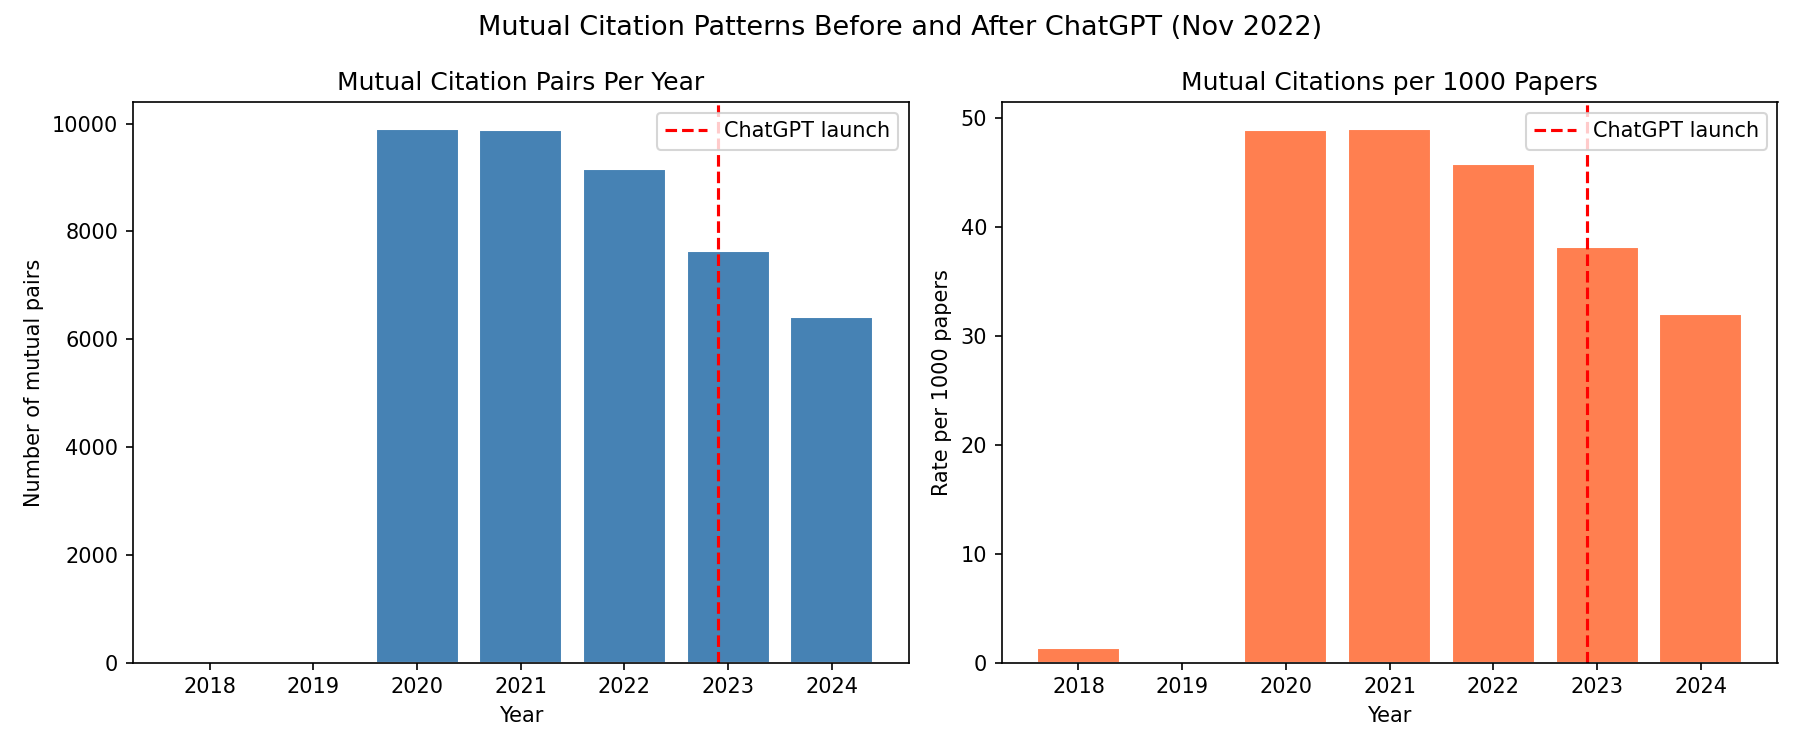
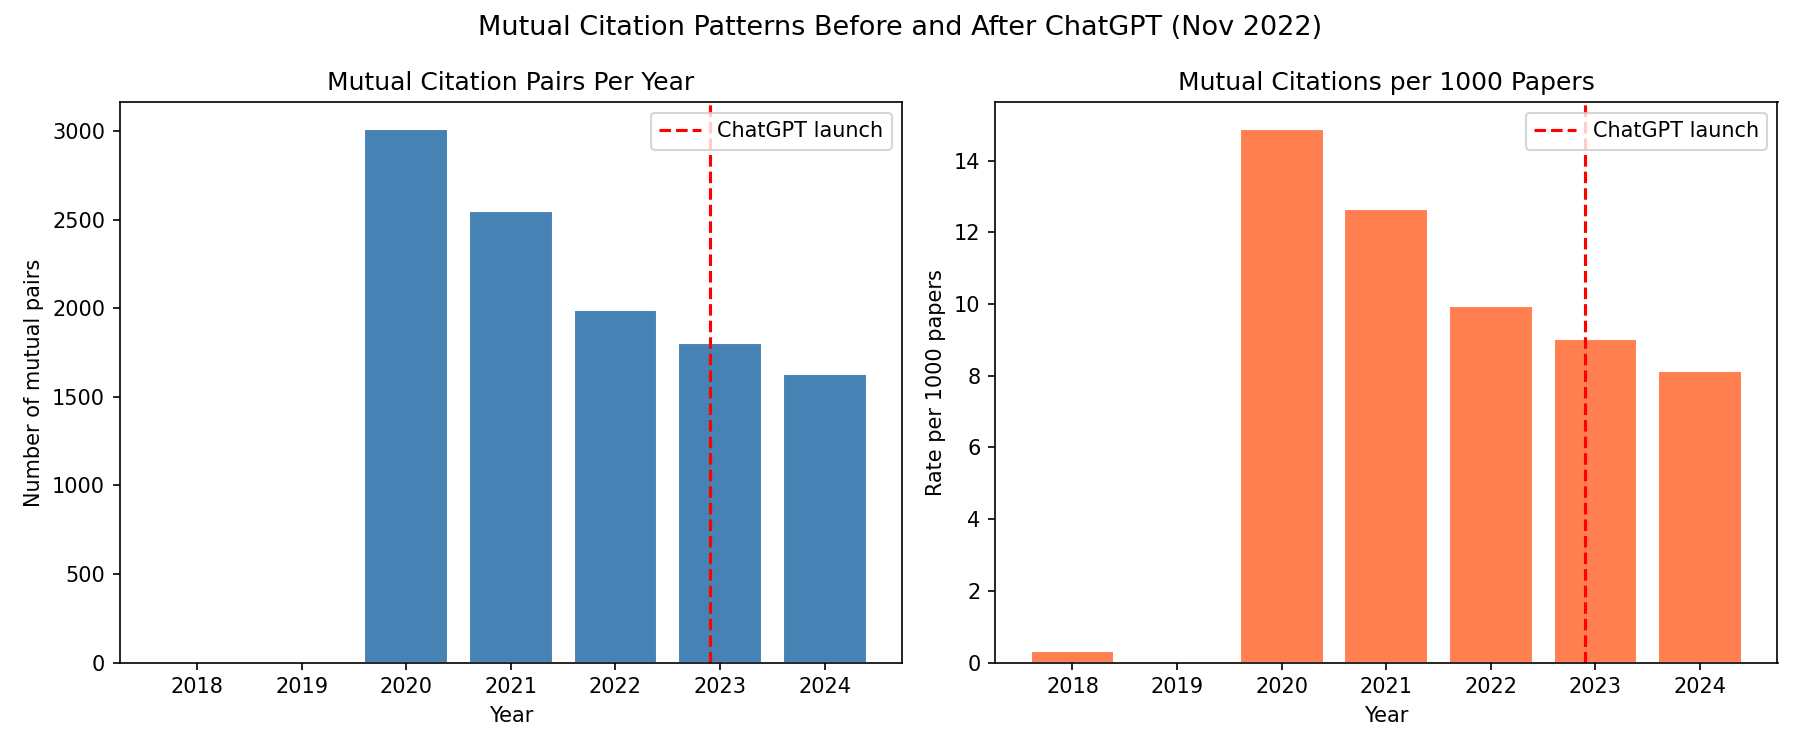
editing motif analysis so pairs are not double counted

diff --git a/tests/stat_test.py b/tests/stat_test.py
@@ -4,45 +4,55 @@ from scipy.stats import chi2_contingency
 
 con = duckdb.connect("data/citations.duckdb")
 
-mutual = con.execute("""
-    SELECT 
-        GREATEST(w_a.year, w_b.year) AS year,
-        COUNT(*) AS pairs
-    FROM citations a
-    JOIN citations b ON a.citing_id = b.cited_id AND a.cited_id = b.citing_id
-    JOIN works w_a ON a.citing_id = w_a.id
-    JOIN works w_b ON a.cited_id = w_b.id
-    WHERE w_a.year BETWEEN 2018 AND 2024
-    AND w_b.year BETWEEN 2018 AND 2024
-    GROUP BY GREATEST(w_a.year, w_b.year)
+# count distinct papers participating in at least one mutual citation, by year
+# - a.citing_id < a.cited_id filters out self-cites and counts each unordered
+#   pair {X, Y} exactly once
+papers_in_mutual = con.execute("""
+    WITH mutual_pairs AS (
+        SELECT a.citing_id AS p1, a.cited_id AS p2
+        FROM citations a
+        JOIN citations b ON a.citing_id = b.cited_id AND a.cited_id = b.citing_id
+        WHERE a.citing_id < a.cited_id
+    ),
+    paper_in_any AS (
+        SELECT DISTINCT p1 AS pid FROM mutual_pairs
+        UNION
+        SELECT DISTINCT p2 FROM mutual_pairs
+    )
+    SELECT w.year, COUNT(*) AS papers_in_mutual
+    FROM paper_in_any pi
+    JOIN works w ON pi.pid = w.id
+    WHERE w.year BETWEEN 2018 AND 2024
+    GROUP BY w.year
 """).fetchall()
 
 papers = con.execute(
     "SELECT year, COUNT(*) FROM works WHERE year BETWEEN 2018 AND 2024 GROUP BY year"
 ).fetchall()
 
-mutual_dict = {r[0]: r[1] for r in mutual}
+in_mutual = {r[0]: r[1] for r in papers_in_mutual}
 paper_dict = {r[0]: r[1] for r in papers}
 
-pre_pairs = mutual_dict.get(2020, 0) + mutual_dict.get(2021, 0)
-post_pairs = mutual_dict.get(2023, 0) + mutual_dict.get(2024, 0)
+pre_in_mutual = in_mutual.get(2020, 0) + in_mutual.get(2021, 0)
+post_in_mutual = in_mutual.get(2023, 0) + in_mutual.get(2024, 0)
 pre_papers = paper_dict.get(2020, 0) + paper_dict.get(2021, 0)
 post_papers = paper_dict.get(2023, 0) + paper_dict.get(2024, 0)
 
-pre_non_mutual = pre_papers - pre_pairs
-post_non_mutual = post_papers - post_pairs
+pre_not_in = pre_papers - pre_in_mutual
+post_not_in = post_papers - post_in_mutual
 
-print(f"Pre-ChatGPT (2020-2021): {pre_pairs:,} mutual / {pre_papers:,} papers")
-print(f"Post-ChatGPT (2023-2024): {post_pairs:,} mutual / {post_papers:,} papers")
+print(f"Pre-ChatGPT  (2020-2021): {pre_in_mutual:,} of {pre_papers:,} papers in mutual pairs")
+print(f"Post-ChatGPT (2023-2024): {post_in_mutual:,} of {post_papers:,} papers in mutual pairs")
 
-pre_rate = pre_pairs / pre_papers * 1000
-post_rate = post_pairs / post_papers * 1000
+pre_rate = pre_in_mutual / pre_papers * 1000
+post_rate = post_in_mutual / post_papers * 1000
 
-print(f"Pre rate: {pre_rate:.4f} per 1000 papers")
-print(f"Post rate: {post_rate:.4f} per 1000 papers")
+print(f"Pre rate:  {pre_rate:.4f} papers in mutual pairs per 1000 papers")
+print(f"Post rate: {post_rate:.4f} papers in mutual pairs per 1000 papers")
 
-# chi-square test on a 2x2 contingency table
-table = np.array([[pre_pairs, pre_non_mutual], [post_pairs, post_non_mutual]])
+# 2x2 paper-level contingency table — each paper is a Bernoulli trial
+# (in a mutual pair or not), grouped by period
+table = np.array([[pre_in_mutual, pre_not_in], [post_in_mutual, post_not_in]])
 
 chi2, pvalue, dof, expected = chi2_contingency(table)
 
@@ -52,9 +62,9 @@ print(f"P-value: {pvalue:.10f}")
 if pvalue < 0.05:
     print("Result: statistically significant (p < 0.05)")
     if post_rate > pre_rate:
-        print("Mutual citation rate INCREASED after ChatGPT.")
+        print("Mutual citation participation INCREASED after ChatGPT.")
     else:
-        print("Mutual citation rate DECREASED after ChatGPT.")
+        print("Mutual citation participation DECREASED after ChatGPT.")
 else:
     print("Result: not statistically significant (p >= 0.05)")
     print("Cannot conclude that ChatGPT changed mutual citation rates.")

diff --git a/research/motif_analysis.py b/research/motif_analysis.py
@@ -6,21 +6,29 @@ con = duckdb.connect("data/citations.duckdb")
 print("Analyzing mutual citation motifs before and after ChatGPT...")
 
 # count mutual citation pairs per year
+# - a.citing_id < a.cited_id filters out self-cites (X = X) AND counts each
+#   unordered pair {X, Y} exactly once instead of twice (the symmetric join
+#   would otherwise yield both (X->Y, Y->X) and (Y->X, X->Y))
 mutual_by_year = con.execute("""
-    SELECT 
-        GREATEST(w_a.year, w_b.year) AS year,
+    WITH mutual_pairs AS (
+        SELECT a.citing_id AS p1, a.cited_id AS p2
+        FROM citations a
+        JOIN citations b
+            ON a.citing_id = b.cited_id
+            AND a.cited_id = b.citing_id
+        WHERE a.citing_id < a.cited_id
+    )
+    SELECT
+        GREATEST(w1.year, w2.year) AS year,
         COUNT(*) AS mutual_pairs
-    FROM citations a
-    JOIN citations b 
-        ON a.citing_id = b.cited_id 
-        AND a.cited_id = b.citing_id
-    JOIN works w_a ON a.citing_id = w_a.id
-    JOIN works w_b ON a.cited_id = w_b.id
-    WHERE w_a.year IS NOT NULL
-    AND w_b.year IS NOT NULL
-    AND w_a.year BETWEEN 2018 AND 2024
-    AND w_b.year BETWEEN 2018 AND 2024
-    GROUP BY GREATEST(w_a.year, w_b.year)
+    FROM mutual_pairs m
+    JOIN works w1 ON m.p1 = w1.id
+    JOIN works w2 ON m.p2 = w2.id
+    WHERE w1.year IS NOT NULL
+    AND w2.year IS NOT NULL
+    AND w1.year BETWEEN 2018 AND 2024
+    AND w2.year BETWEEN 2018 AND 2024
+    GROUP BY GREATEST(w1.year, w2.year)
     ORDER BY year
 """).fetchall()
 
@@ -34,6 +42,7 @@ papers_by_year = con.execute("""
 """).fetchall()
 
 paper_counts = {r[0]: r[1] for r in papers_by_year}
+mutual_counts = {r[0]: r[1] for r in mutual_by_year}
 years = [r[0] for r in mutual_by_year]
 pairs = [r[1] for r in mutual_by_year]
 rates = [p / paper_counts.get(y, 1) * 1000 for p, y in zip(pairs, years)]
@@ -65,48 +74,5 @@ plt.tight_layout()
 plt.savefig("outputs/motif_analysis.png", dpi=150)
 plt.show()
 
-from scipy.stats import proportions_ztest
-import numpy as np
-
-print("\n=== Statistical Significance Test ===")
-
-# pre-ChatGPT: 2020-2021 combined
-pre_years = [y for y in years if y <= 2021]
-post_years = [y for y in years if y >= 2023]
-
-pre_pairs = sum(mutual_counts.get(y, 0) for y in pre_years)
-post_pairs = sum(mutual_counts.get(y, 0) for y in post_years)
-
-pre_papers = sum(paper_counts.get(y, 0) for y in pre_years)
-post_papers = sum(paper_counts.get(y, 0) for y in post_years)
-
-print(f"Pre-ChatGPT (2020-2021): {pre_pairs:,} mutual pairs out of {pre_papers:,} papers")
-print(f"Post-ChatGPT (2023-2024): {post_pairs:,} mutual pairs out of {post_papers:,} papers")
-
-pre_rate = pre_pairs / pre_papers * 1000
-post_rate = post_pairs / post_papers * 1000
-
-print(f"Pre rate: {pre_rate:.4f} per 1000 papers")
-print(f"Post rate: {post_rate:.4f} per 1000 papers")
-
-# run the test
-counts = np.array([post_pairs, pre_pairs])
-nobs = np.array([post_papers, pre_papers])
-
-stat, pvalue = proportions_ztest(counts, nobs)
-
-print(f"\nZ-statistic: {stat:.4f}")
-print(f"P-value: {pvalue:.6f}")
-
-if pvalue < 0.05:
-    print("Result: statistically significant (p < 0.05)")
-    if post_rate > pre_rate:
-        print("Mutual citation rate INCREASED after ChatGPT.")
-    else:
-        print("Mutual citation rate DECREASED after ChatGPT.")
-else:
-    print("Result: not statistically significant (p >= 0.05)")
-    print("Cannot conclude that ChatGPT changed mutual citation rates.")
-
-
-print("\ndone.")
+print("\nFor the formal statistical test, run tests/stat_test.py.")
+print("done.")

diff --git a/docs/research_notes.md b/docs/research_notes.md
@@ -40,7 +40,7 @@ If mutual citation rates stayed flat or grew at the same pace as overall paper v
 
 If the hypothesis holds, the papers involved in post-2022 mutual citations may also be published closer together in time — suggesting researchers are citing work they discovered very recently rather than work they'd been aware of for a long time. This is not required for the hypothesis to hold but would strengthen it if found.
 
-## Results (May 14, 2026)
+## Results (May 14, 2026) — superseded, see correction below
 
 Ran research/motif_analysis.py and research/stat_test.py on the cleaned dataset.
 Pre-ChatGPT (2020–2021): 19,769 mutual citation pairs across 403,920 papers — 48.94 per 1000 papers.
@@ -50,6 +50,37 @@ Chi-square statistic: 954.21, p-value: ~0.000000000 — statistically significan
 Finding: mutual citation rate decreased by 28% after ChatGPT's release.
 This is the opposite of the hypothesis. The decrease is statistically significant and cannot be attributed to random variation.
 Next step: investigate why.
+
+## Bug Fix in Motif Analysis (May 15, 2026)
+
+The numbers above were produced by buggy code. The bugs affected absolute magnitudes but not the direction of the finding. Corrected results below.
+
+What was wrong:
+1. **Self-citations counted as mutual citations.** The mutual-pair self-join `a.citing_id = b.cited_id AND a.cited_id = b.citing_id` matches any self-citation `(X → X)` against itself, so every self-cite was being counted as a "mutual pair". Self-cites per year were not evenly distributed (3,875 in 2020, 5,178 in 2022, 3,155 in 2024), so they inflated the pre-period baseline more than the post-period.
+2. **Every true mutual pair was double-counted.** The symmetric self-join produces two rows per unordered pair `{X, Y}` — once via `(a=X→Y, b=Y→X)` and once via `(a=Y→X, b=X→Y)`. The reported counts were ~2× the actual number of mutual pairs.
+3. **`motif_analysis.py` referenced an undefined variable** (`mutual_counts`) in its stat-test block, and imported `proportions_ztest` from `scipy.stats` where it does not exist (it lives in `statsmodels`). The script crashed before printing any stats, so the chart was produced but the in-script stat test never ran.
+4. **`stat_test.py` built an incoherent contingency table.** It computed `non_mutual = papers - pairs`, subtracting pair-counts from paper-counts as if they were the same unit. The chi-square test mechanically detected that the two ratios differed, but the table had no meaningful interpretation as counts of independent events.
+
+What was fixed:
+1. Added `WHERE a.citing_id < a.cited_id` to the self-join CTE. This filter simultaneously (a) excludes self-cites, since `X < X` is false, and (b) deduplicates each unordered pair `{X, Y}` to exactly one row.
+2. Removed the broken in-script stat block from `motif_analysis.py`. Statistical testing now lives only in `tests/stat_test.py`.
+3. Replaced the contingency table with a paper-level Bernoulli table: per period, how many papers participated in at least one mutual pair vs. how many did not. This is well-defined — each paper is one independent trial — and is computed from a `UNION` of both sides of the deduped mutual-pair set.
+
+## Corrected Results (May 15, 2026)
+
+Mutual pairs per year (deduplicated, self-cites excluded):
+- 2020: 3,010 pairs / 202,323 papers — 14.88 per 1000
+- 2021: 2,550 pairs / 201,597 papers — 12.65 per 1000
+- 2022: 1,989 pairs / 200,102 papers —  9.94 per 1000
+- 2023: 1,806 pairs / 200,063 papers —  9.03 per 1000
+- 2024: 1,631 pairs / 200,227 papers —  8.15 per 1000
+
+Paper-level participation (chi-square on per-paper Bernoulli outcome):
+- Pre-ChatGPT  (2020–2021):  8,860 of 403,920 papers in mutual pairs — 21.94 per 1000
+- Post-ChatGPT (2023–2024):  4,403 of 400,290 papers in mutual pairs — 11.00 per 1000
+- Chi-square statistic: 1,481.60, p-value ≈ 0 — statistically significant.
+
+Finding: participation in mutual citations dropped by ~50% after ChatGPT (from 21.94 to 11.00 papers per 1000). The previously reported 28% drop was understated because the pre-period was inflated by uneven self-cite counts and double-counting. The direction of the finding is unchanged — and stronger than before — and the interpretation in the next section still holds.
 
 Validity Checks (May 14, 2026)
 Before accepting the finding, we tested two potential sources of bias:
